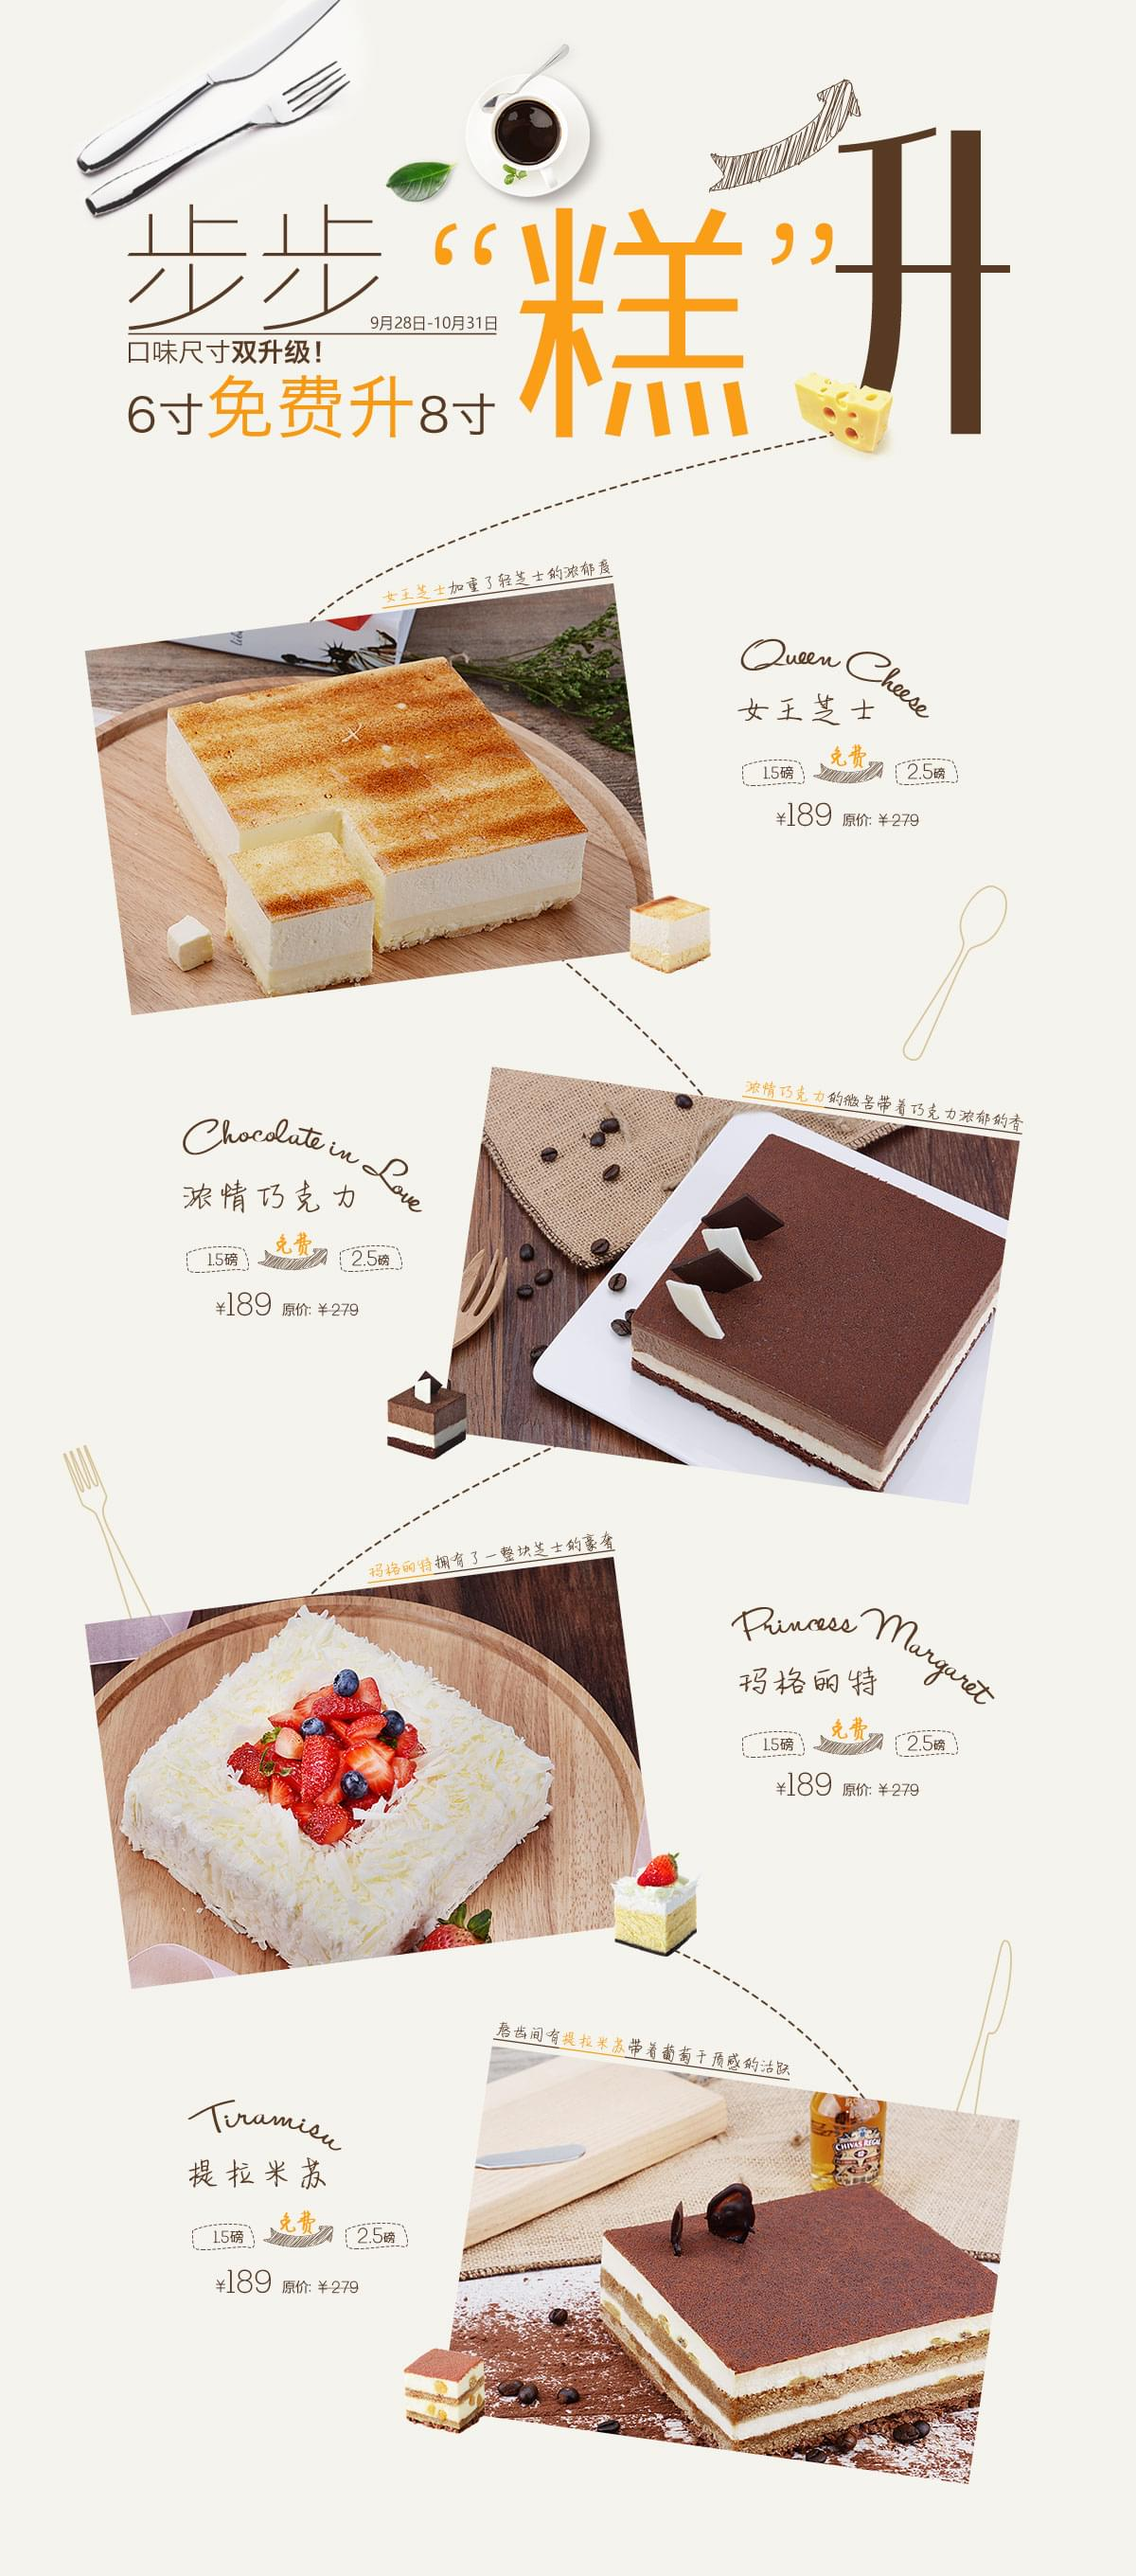
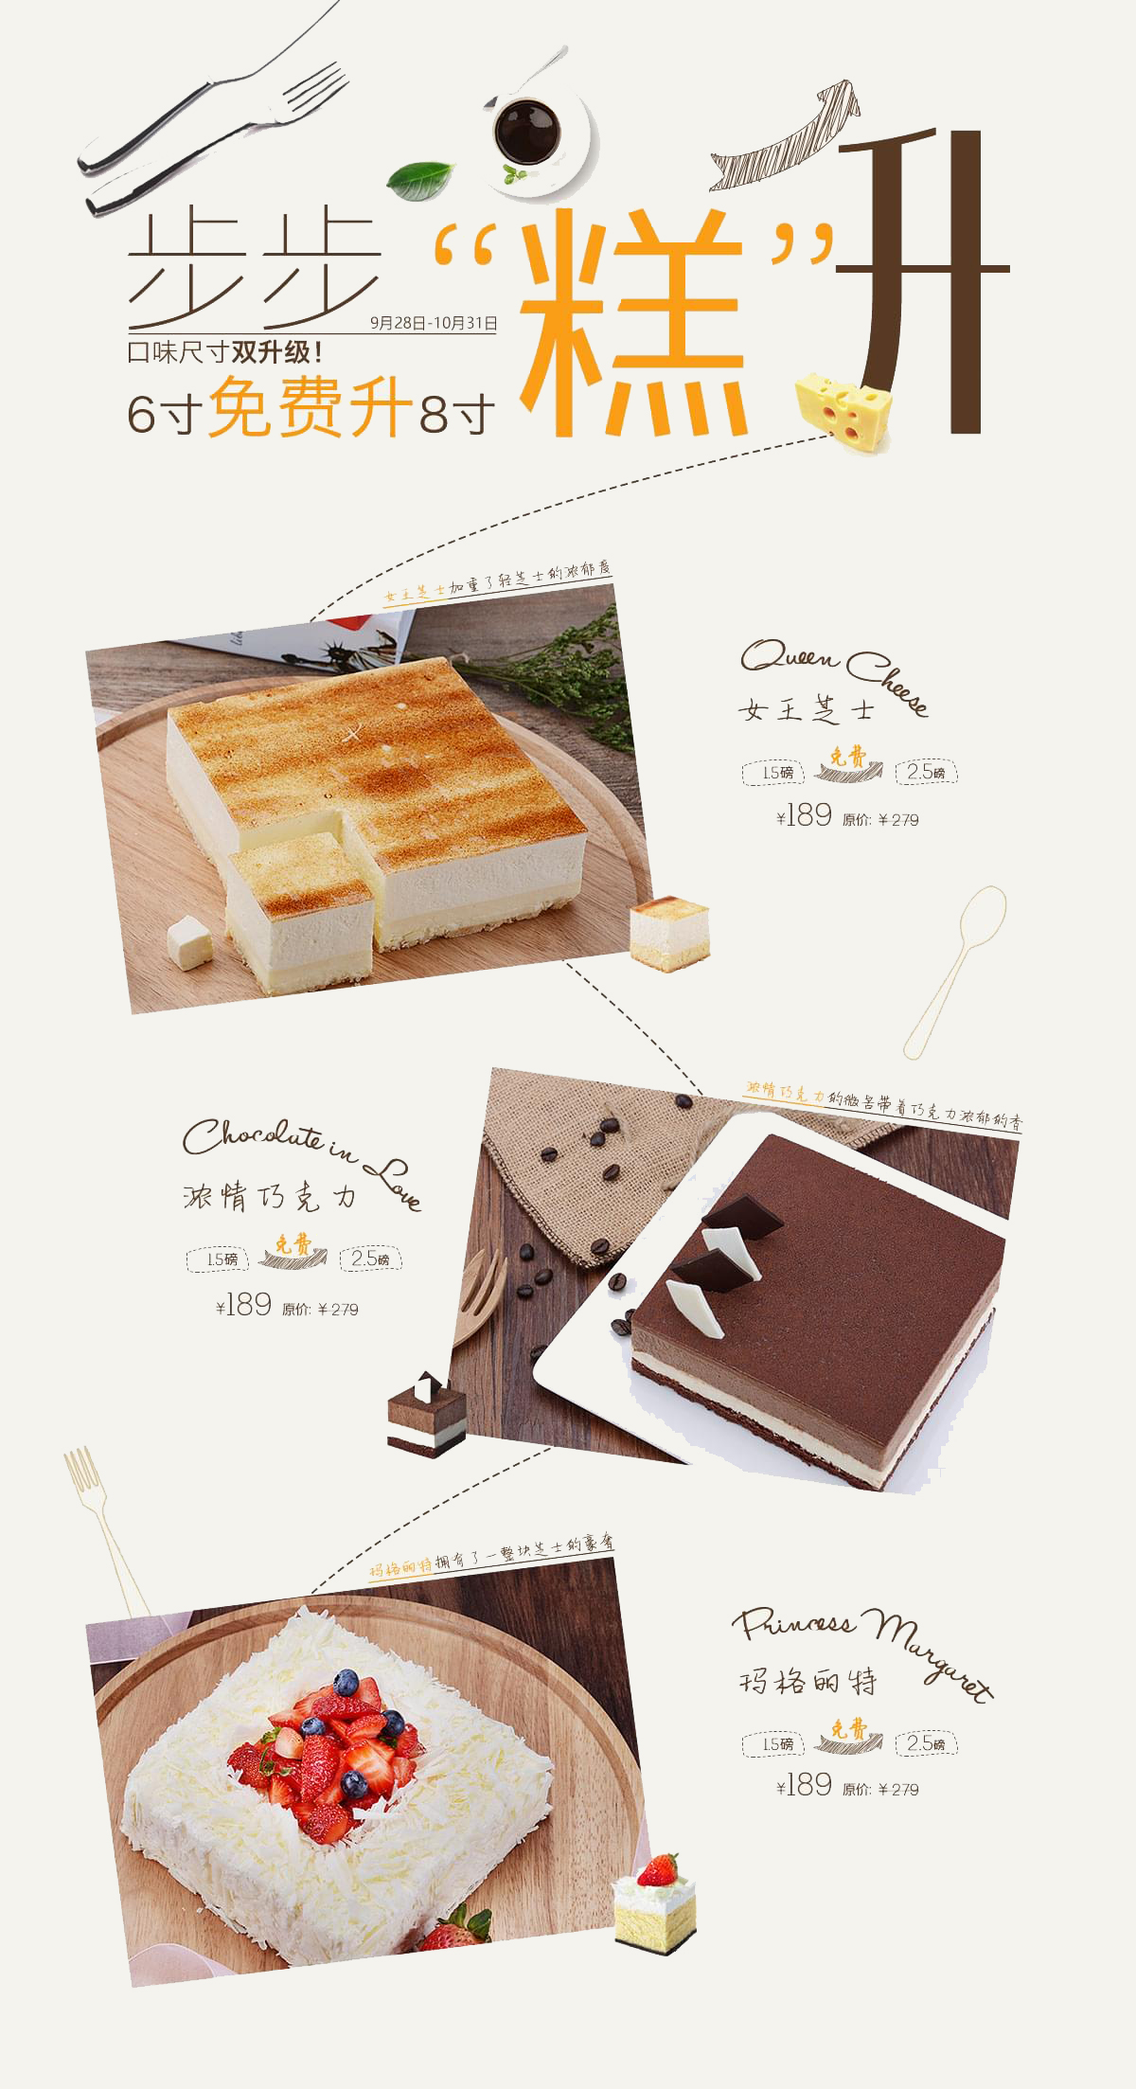
升磅活动修改

diff --git a/assets/css/upgrade-free.css b/assets/css/upgrade-free.css
@@ -1,10 +1,10 @@
 #upgrade { width: 100%; min-width: 1200px; max-width: 1920px; margin: 0 auto; background-color: #f4f3ed; overflow: hidden; }
-#upgrade .upgrade-container { position: relative; width: 1200px; height: 2720px; margin: 0 auto; background: url('../img/upgrade-free/bd_bg.jpg') no-repeat; }
+#upgrade .upgrade-container { position: relative; width: 1200px; height: 2206px; margin: 0 auto; background: url('../img/upgrade-free/bd_bg.jpg') no-repeat; }
 .upgrade-container .btn { display: block; position: absolute; width: 222px; height: 52px; background: url('../img/upgrade-free/btn_bg.png') no-repeat; }
 .upgrade-container .btn-queen-cheese { top: 884px; right: 190px; }
 .upgrade-container .btn-chocolate-in-love { top: 1400px; left: 196px; }
-.upgrade-container .btn-princess-margaret { bottom: 760px; right: 190px; }
-.upgrade-container .btn-tiramisu { bottom: 234px; left: 196px; }
+.upgrade-container .btn-princess-margaret { bottom: 244px; right: 190px; }
+/*.upgrade-container .btn-tiramisu { bottom: 234px; left: 196px; }*/
 
 #upgrade .upgrade-bottom { width: 100%; padding: 50px 0; background-color: #381e1c; }
 .upgrade-bottom .inner { position: relative; width: 1200px; margin: 0 auto; color: #fff; }

diff --git a/upgrade-free.html b/upgrade-free.html
@@ -230,7 +230,7 @@
                 <a href="javascript:;" class="btn btn-queen-cheese"></a>
                 <a href="javascript:;" class="btn btn-chocolate-in-love"></a>
                 <a href="javascript:;" class="btn btn-princess-margaret"></a>
-                <a href="javascript:;" class="btn btn-tiramisu"></a>
+                <!--<a href="javascript:;" class="btn btn-tiramisu"></a>-->
             </div>
 
             <div class="upgrade-bottom">
@@ -240,7 +240,7 @@
                         <p>这一次，口味升级，</p>
                         <p>是女王芝士加重了轻芝士的浓郁度，</p>
                         <p>让玛格丽特拥有了一整块芝士的豪奢，</p>
-                        <p>唇齿间有提拉米苏带着葡萄干质感的活跃，</p>
+                        <!--<p>唇齿间有提拉米苏带着葡萄干质感的活跃，</p>-->
                         <p>让浓情巧克力的微苦带着巧克力浓郁的香。</p>
                         <p>每一层的滋味，都带着惊喜，</p>
                         <p>每一次的改变，都为了你的赞许与倾心。</p>
